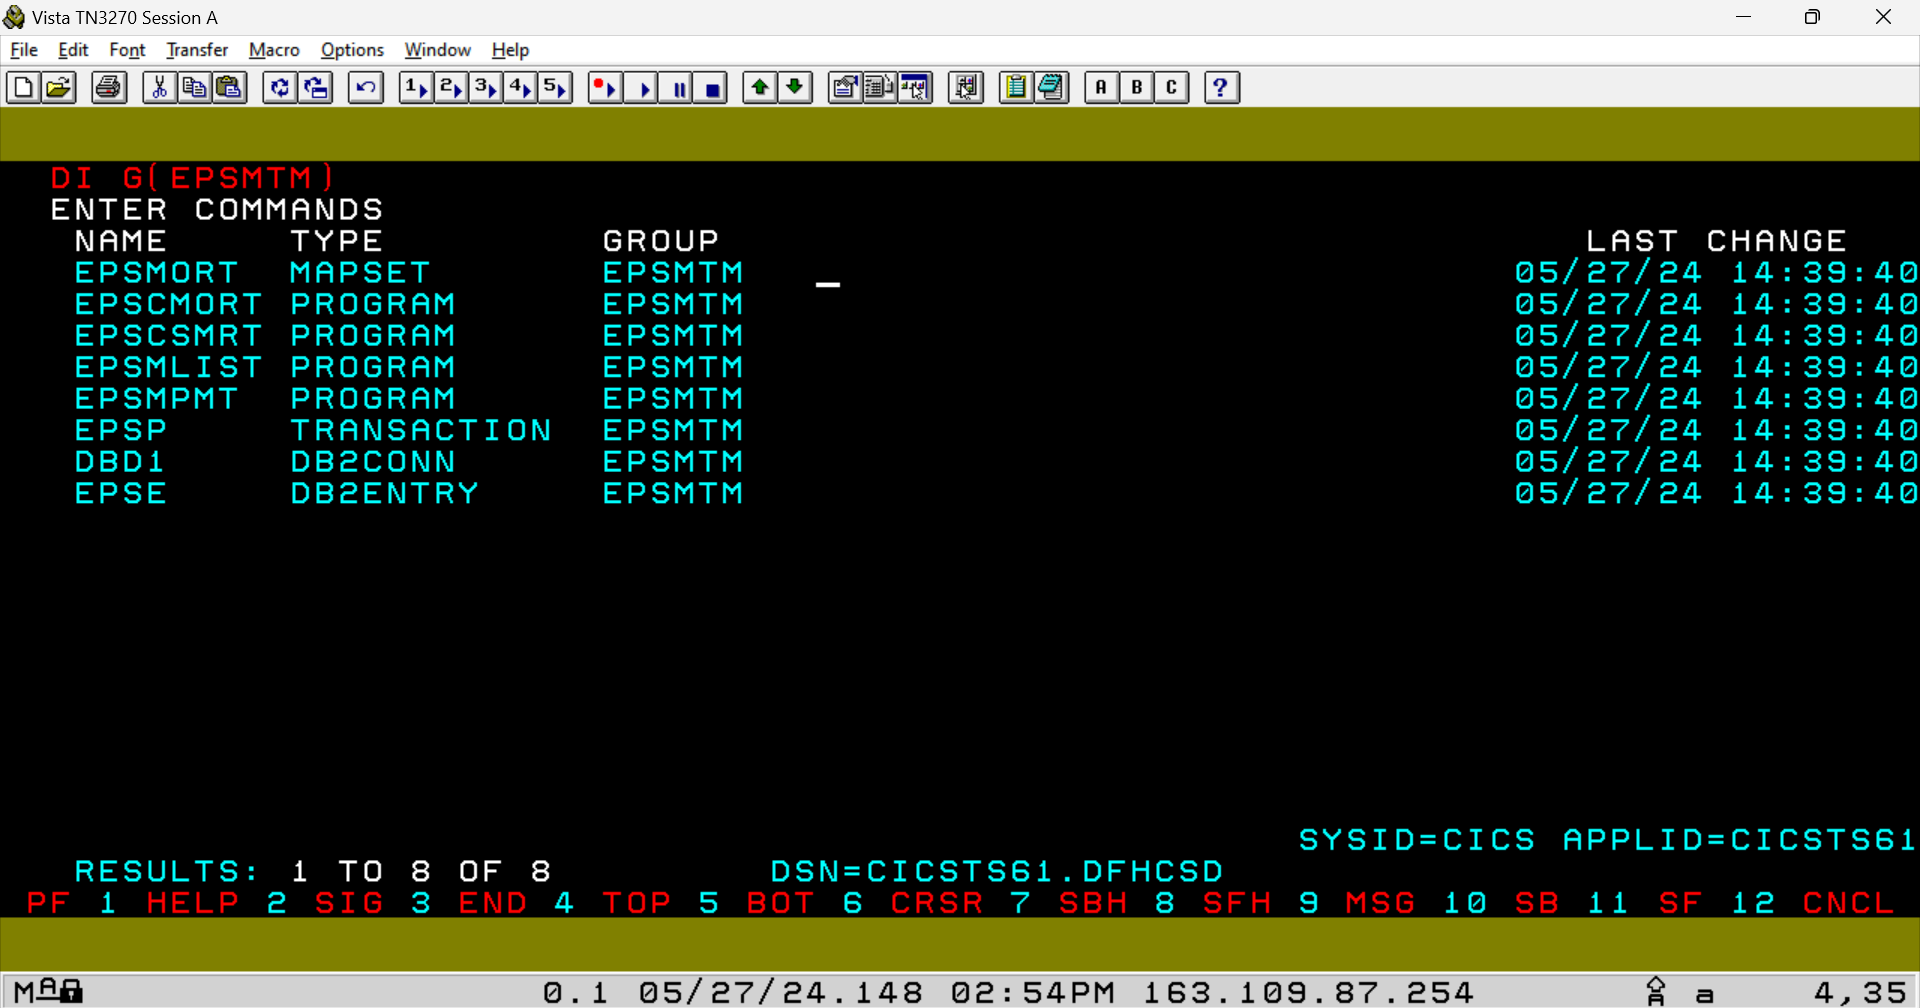
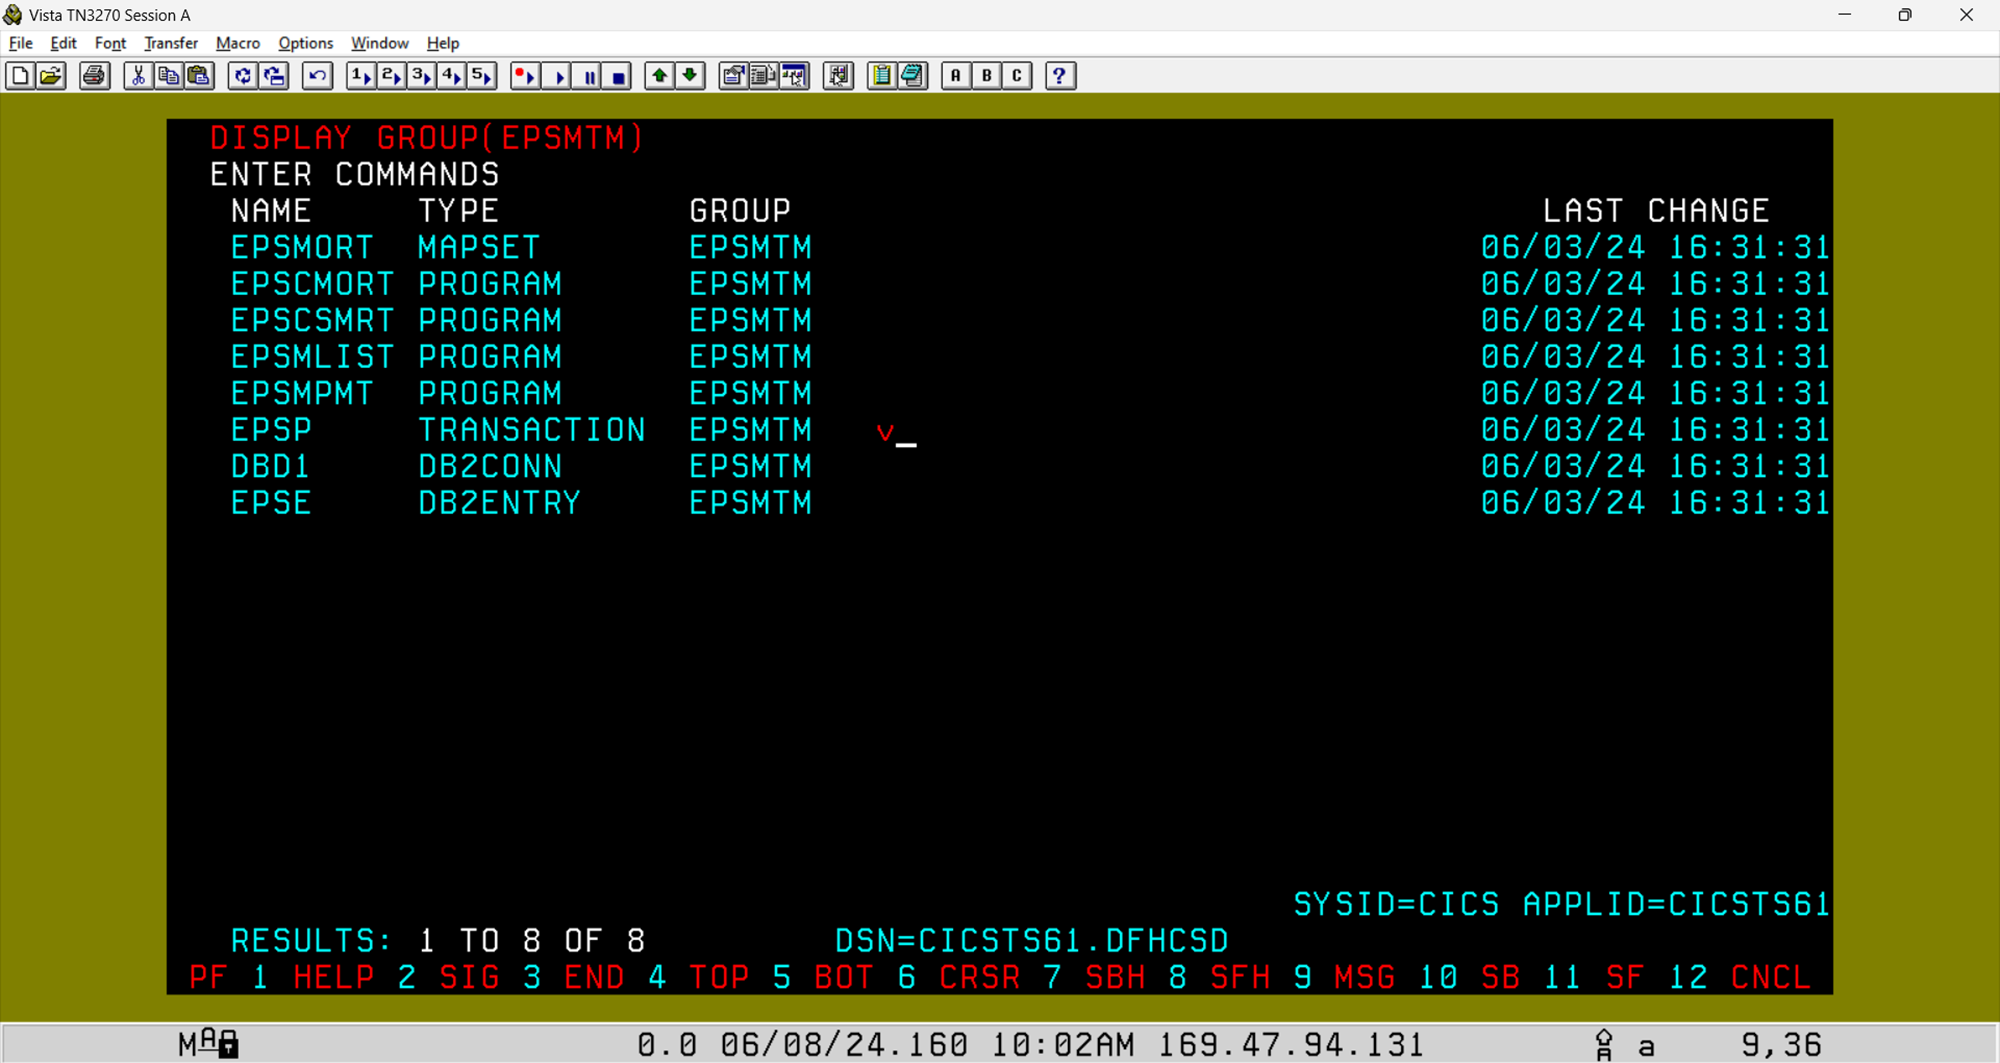
a word on deploy

diff --git a/readme.md b/readme.md
@@ -9,7 +9,7 @@ As an additional aid, links to external reference material are provided.
 
 
 ## zOS Application Infrastructure Services
-The diagram below illustrates the different software layers used to create and support mainframe applications.  
+The diagram below illustrates the different software layers used by mainframe applications.  
 - zOS, the operating system, is at the bottom and supervises applications, subsystems (middleware) and the hardware resources (not shown).   Systems Programmers install, patch, upgrade and tune the core OS and support  Administrators and Developers. 
   
 - In the middle are Online, Common amd Batch Services that are managed by various Systems Administrators with specialized skills to configure, secure and tune these services. They also support application teams during development and operations.
@@ -20,6 +20,7 @@ The diagram below illustrates the different software layers used to create and s
 
 #### zOS Application Design Basics 
 Mainframe programs are written mostly in the Cobol programming language. Other mainframe languages are Assembler, PLI...  Applications are composed of one or more programs and can be a mix of languages. Programs are designed to meet some specific business feature/solution. Applications and the data they process can be either interactive (online) or batch. 
+
 
 
 **Interactive** applications use the IBM product [CICS](https://www.ibm.com/docs/en/zos-basic-skills?topic=zos-introduction-cics) or [IMS](https://www.ibm.com/docs/en/integration-bus/10.0?topic=ims-information-management-system).
@@ -40,34 +41,52 @@ Mainframe programs are written mostly in the Cobol programming language. Other m
  - Jobs are submitted to the [Job Entry Subsystem - JES](https://www.ibm.com/docs/en/zos-basic-skills?topic=jobs-what-is-batch-processing) to execute the program(s) in  each step(s). 
  - Some processes can run outside of JES like dbb-zappbuild. This java process runs under an SSH session without JCL and JES.  However, it allocates files and executes programs just like a JCL job.  
  - Security for all processes on zOS is managed by RACF - see below. 
-<br /> 
+<br/> 
 
    The example job below has one step to execute the IBM utility program IEFBR14. That step allocates a new DSN with the DD name of DD1. A new file is allocated with certain attributes like logical record size and disk space on a volume (disk).  The ```"SYSOUT=*"``` DDs are allocated by JES for program logs. 
  <img src="images/jcl.png" width="500">
 
 
-##BBMM##
+## BBMM ***
+
+
+**Build and Deploy**
+A modern zOS DevOps process uses IBM Dependency Based Build (DBB) and a Deployment server like Urban Code Deploy.  There are also other non-DevOps processes like Endevor and Changeman that can build and deploy mainframe applications using traditional batch JCL jobs. 
+
+In general they all perform the following basic steps: 
+1. **Compile**: transforms source code into object code like the Cobol compiler. 
+
+2. **Linkage Edit (linkedit)**:  transforms object code into an executable load module. The linkage editor is also referred to as the binder and is not the same as the DB2 bind process. 
+ 
+5. **Deploy**: 
+   1. load module(s) are copied into a Library (Library and PDS are the same thing and are types of zOS file systems)
+   2. for Online or Common services, a CICS Newcopy or DB2 Bind may be needed
+   3. batch applications may require new or updated JCL 
+   4. there are many other system resource defintions or updates like a DB2 table, a CICS screen that may be needed as part of a deployment
+   
+
+   
 ## MortApp Design 
-A basic [CICS/DB2 application](https://www.ibm.com/docs/en/cics-ts/5.6?topic=fundamentals-cics-applications) has business logic, a data layer and screen(s) that are also called map(s).  
+A basic [CICS/DB2 application](https://www.ibm.com/docs/en/cics-ts/5.6?topic=fundamentals-cics-applications) has business logic, a data layer, and screen(s) that are also called map(s) and various other system resources. 
 
 The MortApp is designed with 4 types of source files; A main program, a map program, subprograms and COMMAREAs:
-1. [eps**c**mort.cbl](MortgageApplication/cobol/epscmort.cbl#L149-L154) 
+1. [eps**c**mort.cbl](MortgageApplication/Cobol/epscmort.cbl#L149-L154) 
    - is the main program. 
    - it uses the ```"EXEC CICS SEND MAP ..."``` Cobol statement to call program **bms/epsmort**.   
    - it also uses ```"EXEC SQL ..."``` to access DB2 data. 
-<br />   
+<br/>   
 1. [epsmort.bms](MortgageApplication/bms/epsmort.bms) 
    - is a 3270 [BMS](https://www.ibm.com/docs/en/cics-ts/5.6?topic=programs-basic-mapping-support) program written in assembler language.  
    - the compiler creates 2 artifacts from this source code:
      - a symbolic copybook
      - a physical load module  
    - when EPSCMORT is built, the compiler allocates the copybook SYSLIB PDS and adds the source to the program
-   - **Note**- BMS copybooks are not stored in the application repo like other copybooks.  Instead they are stored in the PDS created during the DBB build of the BMS program.
-  <br />   
+   - **Note** BMS copybooks are not stored in the application repo like other copybooks.  Instead they are stored in the PDS created during the DBB build of the BMS program.
+  <br/>   
 
-1. [cobol/epscsmrt.cbl](MortgageApplication/cobol/epscsmrt.cbl) 
+1. [Cobol/epscsmrt.cbl](MortgageApplication/Cobol/epscsmrt.cbl) 
    - is a subprogram called by EPSCMORT ```"EXEC CICS LINK PROGRAM( W-CALL-PROGRAM ) **COMMAREA**( W-COMMUNICATION-AREA )"``` to calculate a mortgage. 
-<br />  
+<br/>  
 
 1. [copybook/epsmtcom.cpy](MortgageApplication/copybook/epsmtcom.cpy)  
    - is the COMMAREA used to exchange data between programs
@@ -75,12 +94,12 @@ The MortApp is designed with 4 types of source files; A main program, a map prog
    - COMMAREAs are designed  for this application. It includes 2 other copybooks; one for input the other for output data structures
 
 **CICS API**
-Let's see how an API call is created from the Cobol source code [```"EXEC CICS SEND MAP('EPMENU') MAPSET('EPSMORT') ..."```](MortgageApplication/cobol/epscmort.cbl#L149-L154) used in EPSCMORT: 
+Let's see how an API call is created from the Cobol source code [```"EXEC CICS SEND MAP('EPMENU') MAPSET('EPSMORT') ..."```](MortgageApplication/Cobol/epscmort.cbl#L149-L154) in EPSCMORT: 
 
-- At compile time, the EPSCMORT  ```"EXEC CICS ..."``` command is _translated_ into a CICS API service call. 
-- At link-edit time, the API is [statically](https://www.ibm.com/docs/nl/cobol-zos/6.3?topic=program-examples-static-dynamic-call-statements) linked from a SYSLIB PDS into EPSCMORT to create a single load module.     
+- At compile time, the command is _translated_ into a CICS API service call. 
+- At linkedit time, the API is [statically](https://www.ibm.com/docs/nl/Cobol-zos/6.3?topic=program-examples-static-dynamic-call-statements) linked from a SYSLIB PDS into EPSCMORT to create a single load module.     
   
-- At runtime, when EPSCMORT calls the 'Send Map' API, CICS loads and executes the EPSMORT BMS program to display its 3270 map (map and screen are the same thing).  
+- At runtime, when EPSCMORT issues the 'Send Map' command, the CICS API loads and executes the EPSMORT BMS program to display its 3270 map (map and screen are the same thing).  
 
 
 
@@ -89,24 +108,24 @@ DB2 on zOS is an IBM product that provides common Database services to interacti
 
 - At compile time, all ```"EXEC SQL ..."``` source code statements are _precompiled_ into DB2 API calls. 
 - The compiler also outputs a DB2 DBRM file for the program.
-- At link-edit time, the DB2 API is statically linked from a SYSLIB PDS into EPSCMORT to create a single load module.     
+- At linkedit time, the DB2 API is statically linked from a SYSLIB PDS into EPSCMORT to create a single load module.     
 - Load modules can be linked with a mix of CICS, DB2 and many other subsystem APIs. 
 - For DB2 based programs, a job is executed to Bind the program's DBRM to the DB2 subsystem. 
 
 The diagram below illustrates how a static program or API like "PROGB" is linked into another main program "PROGA" to produce one load module. Notice how the source languages can be different; Cobol and Assembler in this case. 
 <img src="images/build1.png" width="600">
 
-**Side Notes**  
- - In addition to including copybooks, modern cobol compilers _translate_ and _precompile_ CICS and DB2 source before the compile.
- -  In older versions of the compiler,   translation and precompile where executed as pre-processor steps before the compile. 
- -  The output of a compile is called  Object Code (or Object Deck) and used as input to the link-edit phase.   
- - A load module is another name for an executable program. Or the output artifact of the link-edit (binder) step of a build. They are also called API, stubs, binaries or objects. 
- - Load modules can be statically linked during the link-edit phase as explained above.  Or they can be dynamically called at runtime where the 'system' finds and loads the program for execution. 
+_Side Notes_ 
+ - In addition to including copybooks, modern Cobol compilers _translate_ and _precompile_ CICS and DB2 source before the final compile phase.
+ -  In older versions of the compiler,   translation and precompile were executed as pre-processor steps before the compile. 
+ -  The output of a compile is called  Object Code (or Object Deck) and used as input to the linkedit phase.   
+ - A load module is another name for an executable program. Or the output artifact of the linkedit (binder) step of a build. They are also called API, stubs, binaries or objects. 
+ - Load modules can be statically linked during the linkedit phase as explained above.  Or they can be dynamically called at runtime were the 'system' finds and loads the program for execution. 
 
 
 
-### CICS Application Configuration 
-This section outlines how to configure a new application in CICS using MortApp as an example. 
+### CICS Application Resource Definitions  
+This section outlines what and how the resources of a new application are defined in CICS using MortApp as an example. 
 
 ##### CICS Transactions
 All CICS applications have a least one transaction which is used as a starting point: 
@@ -128,42 +147,54 @@ Transactions and all other CICS application resources are configured using the I
   
 <img src="images/dfhcsdup.png" width="700">
 
-##### Installing an Application 
-As a final step, MortApp is installed in once using the CICS commands: 
+##### Installing a CICS Application Definition
+As a final step, MortApp is added (installed) once to CICS with the  commands:
   - ```'CEDA INSTALL GROUP(EPSMTM)'``` installs the MortApp group 
   - ```'CEDA INSTALL DB2CONN(DBD1)'``` installs the DB2 Connect resource
 
-### The CICS System Layer 
-Application teams focus on the various parts of their application and work withthe CICS Admins to design the resources and definitions needed to install and run their code. 
+Use the CICS command ```"CEDA DISPLAY GROUP(EPSMTM)"``` to view the installed definitions for the MortApp group:
+<img src="images/ceda1.png" width="700">
+ 
 
-CICS Admins also configure system-wide settings used across all applications.  The list of things they do is extensive.  But for our example, there are 2 key components needed to enable a new application like MortApp on a new environment; the CICS Started Task and the CICS SIP. 
+As shown above, tab over to an entry and enter **V** to view more details:
+<img src="images/ceda2.png" width="700">
+
+
+
+### The CICS System Layer 
+Application teams focus on the various parts of their application and work with Systems Admins to define the resources needed to run their code. 
+
+In addition to application level configurations, CICS Admins configure system-wide settings used across all applications.  The list of things they do is extensive.  But for our example, there are 2 key components needed to enable a new application like MortApp on a new environment; the CICS Started Task and the CICS SIP. 
 
 **The CICS Started Task** 
-In simple terms, CICS runs like a batch job under JES.  The main difference is that its a long running job like a unix daemon task.  This type of job is called a 'Started Task' (STC).  STC's are configured to automatically start when zOS is IPLed - Initial Program Load  (also called boot).
+In simple terms, CICS runs like a batch job under JES.  The main difference is that its a long running job like a unix daemon task.  This type of job is called a 'Started Task' (STC).  STCs are configured to automatically start when zOS is IPLed - Initial Program Load  (also called boot).
 
 Example CICS STC running in WaaS 3.1
 <img src="images/cicsstc.png" width="500">
 
 
-CICS loads applications from the [DFH**RPL**](../WaaS_Setup/initVSI-JCL/cicsts61-mod.jcl#L69) DD in its JCL. In a new environment, that JCL is modified to include the load PDS for the application. 
+CICS loads applications from the [DFH**RPL**](../WaaS_Setup/initVSI-JCL/cicsts61-mod.jcl#L69) DD in its JCL. That DD is modified to include the load PDS(s) of all CICS applications. 
 
-Use dbb-zappbuild's "HLQ='DBB.POC'" to store the MortApp load modules in the "DBB.POC.LOAD" PDS.  This same PDS is then added to the RPL DD of the CICS STC JCL. 
+Using dbb-zappbuild's "HLQ='DBB.POC'" will add MortApp load modules to a PDS called "DBB.POC.LOAD" PDS which is part of the RPL DD concatenation.
 <img src="images/rpl.png" width="700">
 
+This is a short-cut in deploying a load module during a DBB User Build. Typically, a Deployment server is used to copy a load module into an RPL lib. 
 
 ##### CICS Newcopy 
-When EPSP is started, CICS loads and executes program EPSCMORT from the RPL PDS. 
+When EPSP is started, CICS loads and executes program EPSCMORT from the RPL lib. 
 
-For performance reasons, CICS caches loaded programs in memory.  During early dev and test, when a new version of a program is deployed, the cmd ```'CEMT SET PROG(EPSCMORT) NEWCOPY'``` is required to reload the module from the RPL and refresh CICS's cache. 
+For performance reasons, CICS caches loaded programs in memory.  During early dev and test, as new versions of a program are tested, the CICS command  ```'CEMT SET PROG(EPSCMORT) NEWCOPY'``` is required to reload the module from the RPL and refresh CICS's cache. 
 
 
 **The CICS [SIP](https://www.ibm.com/docs/en/cics-ts/5.6?topic=areas-sip-system-initialization-program)** 
 The CICS 'System Initialization Program' file or SIP is the main configuration file.   In a new environment, it must be configured to enable the [DB2CONN](../WaaS_Setup/initVSI-JCL/dfh$sip1#L7) feature. This initializes the   attachment facility between CICS and DB2. 
 <img src="images/sip.png" width="500">  
-<br />   
+<br/>   
 
 ### DB2 Application Configuration 
-As illustrated below, programs are defined to DB2 using a DB2 [Plan](https://www.ibm.com/docs/ru/db2-for-zos/12?topic=recovery-packages-application-plans).  Plans are collections of DB2 packages. A package represents the DB2 resources used by a program.
+As illustrated below, programs are defined to DB2 using a DB2 [Plan](https://www.ibm.com/docs/ru/db2-for-zos/12?topic=recovery-packages-application-plans). 
+
+Plans are collections of DB2 packages. A package represents the DB2 resources used by a program.
 <img src="images/plan.png" alt="DB2 Plans and packages" width="600">  
 
 When a DB2 program is _precompiled_, a DB2 Database Request Module (DBRM) artifact is created and [bound](https://www.ibm.com/docs/en/db2-for-zos/12?topic=zos-binding-application-packages-plans) to a package within a plan.   
@@ -178,25 +209,26 @@ When a DB2 program is _precompiled_, a DB2 Database Request Module (DBRM) artifa
    -  defines the plan's PKLIST "Package List" named "EPS.\*".   A PKLIST is a _collection_ of one or more packages for a plan. 
 
 <img src="images/epsbind.png"  width="700">  
-<br/>
-<br/>
+<br/><br/>
 
 
 [epsgrant.jcl](../WaaS_Setup/initVSI-JCL/epsgrant.jcl#L19) is run once to grant public (all users) access to execute the new EPSPLAN.  A grant is a DB2 command to manage access to resources. In a WasS environment access can be given to all.  In a production environment, access is normally given to a RACF group owned by an application like, for example, EPS. 
 <img src="images/epsgrant.png"  width="700">  
 
+_Side Note_ 
+The above DB2 jobs require a System DBA to installed the DSNTEP2 utility described below. 
+
 
 **DB2 System layer**
-Developers work with Database Administrators (DBAs) to define DB2 resources like tables, stored procs, plans, packages and other objects related to their application.  
+Developers work with DB2 System  Administrators (DBAs) to define DB2 resources like tables, stored procs, plans, packages and other objects related to their application.  
 
-DBAs also maintain the DB2 subsystem which, like CICS, is an STC.  In the WaaS 3.1 stock image, the DB2 STC job name starts with the prefix DBD1. DB2 has several supporting STCs with the same prefix. 
+DBAs also maintain the DB2 subsystem which, like CICS, is a STC.  In the WaaS 3.1 stock image, the DB2 STC job name starts with the prefix DBD1. DB2 has several supporting STCs with the same prefix that provide various services. 
 
 **DB2 Subsystem STC in WaaS 3.1**
 <img src="images/db2stc.png"  width="500">
 
 
-On a new environment, the batch utility 'DSNTEP2' must be compiled to perform DB2 binds. 
-[dsntep2.jcl](../WaaS_Setup/initVSI-JCL/dsntep2.jcl) is executed to install this utility. 
+On a new environment, the sample batch job [dsntep2.jcl](../WaaS_Setup/initVSI-JCL/dsntep2.jcl) is executed once to install the DB2 utility "DSNTEP2" that is used to define and update DB2 application resources like bind and grant: 
 <img src="images/dsntep2.png"  width="700">
 
 
@@ -205,19 +237,24 @@ RACF is the security subsystem on zOS.  There are others like 'Top Secret' and A
 
 All processes run under an authenticated user ID.  CICS and TSO use a login screen to authenticate users with a secret password. An SSH connection to zOS can authenticate users with a password, SSH key or zOS Certs. 
 
-STCs like CICS, DB2, UCD Agent, pipeline runners are assigned a RACF user ID by the zOS Security Admins.  This special ID is called a [protected account](https://www.ibm.com/docs/no/zos/2.4.0?topic=users-defining-protected-user-ids) and they tend to have a higher level of access privileges than users.  
+STCs like CICS, DB2, UCD Agent, pipeline runners are assigned a RACF user ID by the zOS Security Admins.  This special ID is called a [protected account](https://www.ibm.com/docs/no/zos/2.4.0?topic=users-defining-protected-user-ids) and they tend to have a high level of access privileges.  
 
 In a new zOS environment, connectivity between [DB2 and CICS](https://www.ibm.com/docs/en/cics-ts/5.6?topic=interface-overview-how-cics-connects-db2) must be defined under RACF using a sample job like [racfdef.jcl](../WaaS_Setup/initVSI-JCL/racfdef.jcl#12).  It creates 2 facility classes and the permissions need for that connection:
- - ```'RDEFINE FACILITY DFHDB2.AUTHTYPE.DBD1'``` - defines a DB2 RACF resource name ending in **"DBD1"** which is the "DB2CONN=**DBD1**" resource defined in the DFHCSDUP job. "DBD1" is an example name. Any name can be used as long as they match.  This example uses the DB2 subsystem name DBD1 on the new environment.
+ - ```'RDEFINE FACILITY DFHDB2.AUTHTYPE.DBD1'``` - defines a DB2 RACF resource name ending in **"DBD1"** which is the "DB2CONN=**DBD1**" resource defined in the DFHCSDUP job. "DBD1" is an example name. Any name can be used as long as they match.  This example uses the DB2 subsystem name DBD1.
     
 - ```'RDEFINE FACILITY DFHDB2.AUTHTYPE.EPSE'``` defines a DB2 RACF resource name ending in **"EPSE"** which is the "DB2ENTRY(**EPSE**)" resource defined in DFHCSDUP.  Any name can be used as long as they match. 
    
 
 The 'PE' RACF commands create profiles to '**PE**rmit' user(s) access to a resource. This example permits the CICSUSER ID to connect to the DB2 instance DBD1 using the EPSE entry.
 <img src="images/racdef.png"  width="700">
-  
-## Summary
-Using the sample MortApp we covered the basic design and configuration concepts and tasks that are common across CICS/DB2 applications. These same tasks can be performed to port any CICS/DB2 application to a new zOS environment like a WaaS stock image or other new zOS environment. 
 
-As illustrated below, additional DevOps processes and tools like Git, CI and CD can be add to a new environment to support a full end-to-end DevOps worklow for early dev and test. 
+While DBA and CICS Admin are roles assigned to different people in most organizations, in a WaaS environment the default IBMUSER ID has the same RACF privileges to perform all the needed system and application initialization and configuration tasks to enable the MortApp or any application. 
+
+
+## Summary
+Using the sample MortApp we covered the basic design, configurations, and tasks that are common across CICS/DB2 applications. These same tasks can be performed to port any CICS/DB2 application to a new zOS environment like a WaaS stock image. 
+
+
+
+As illustrated below, additional DevOps processes and tools like Git, CI and CD can be intergated to support a full end-to-end DevOps workflow for early dev and test. 
 <img src="images/waasdevops.png"  width="700">
